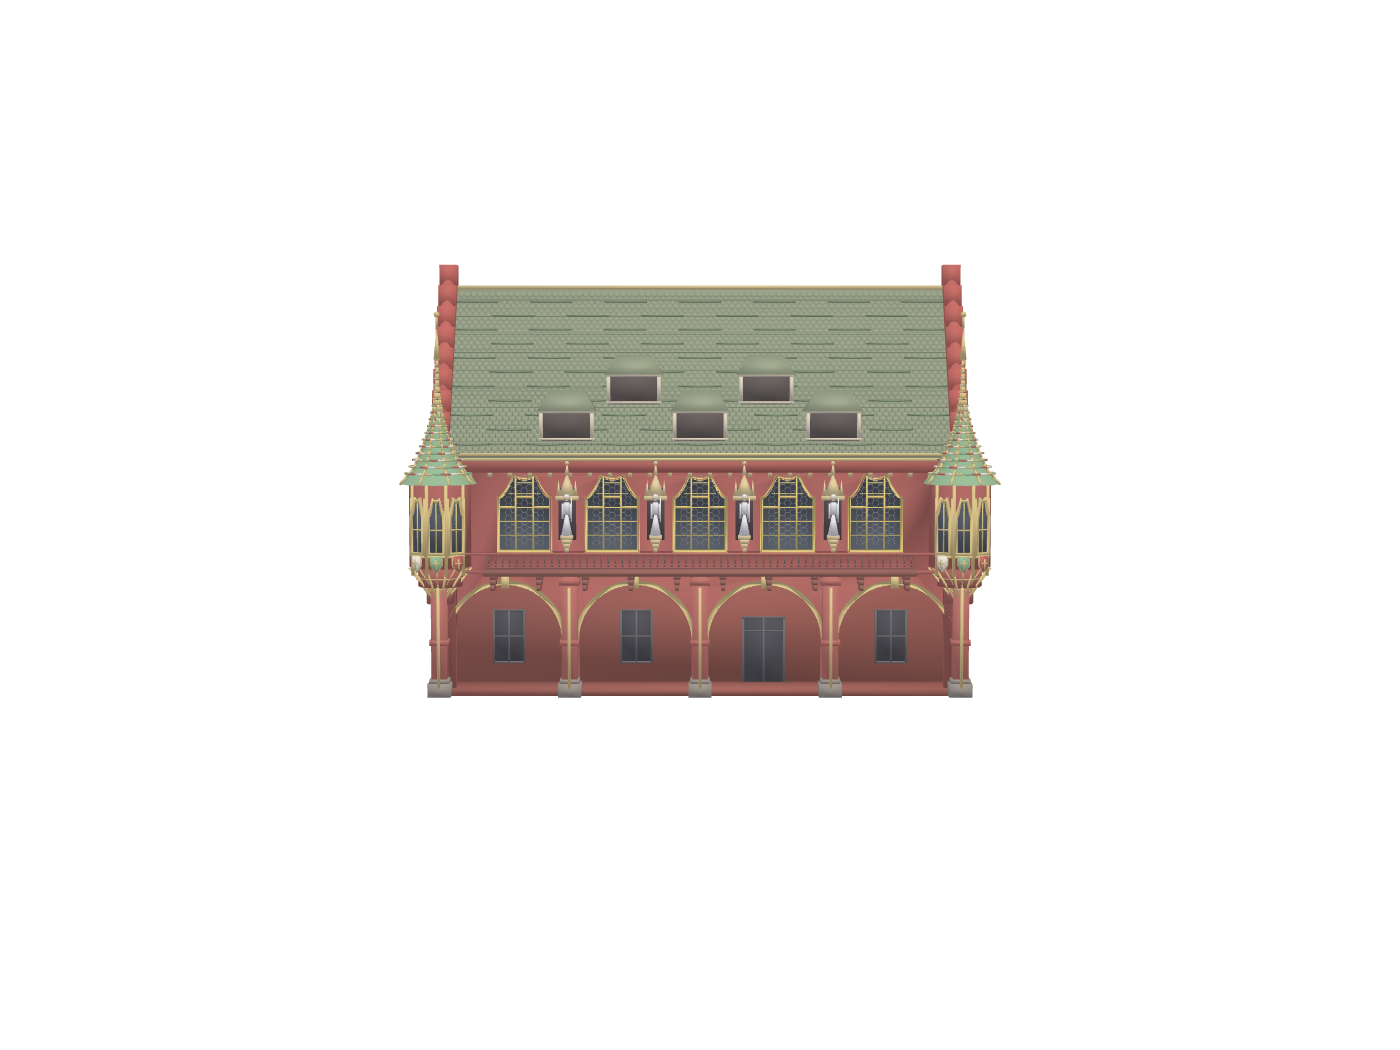
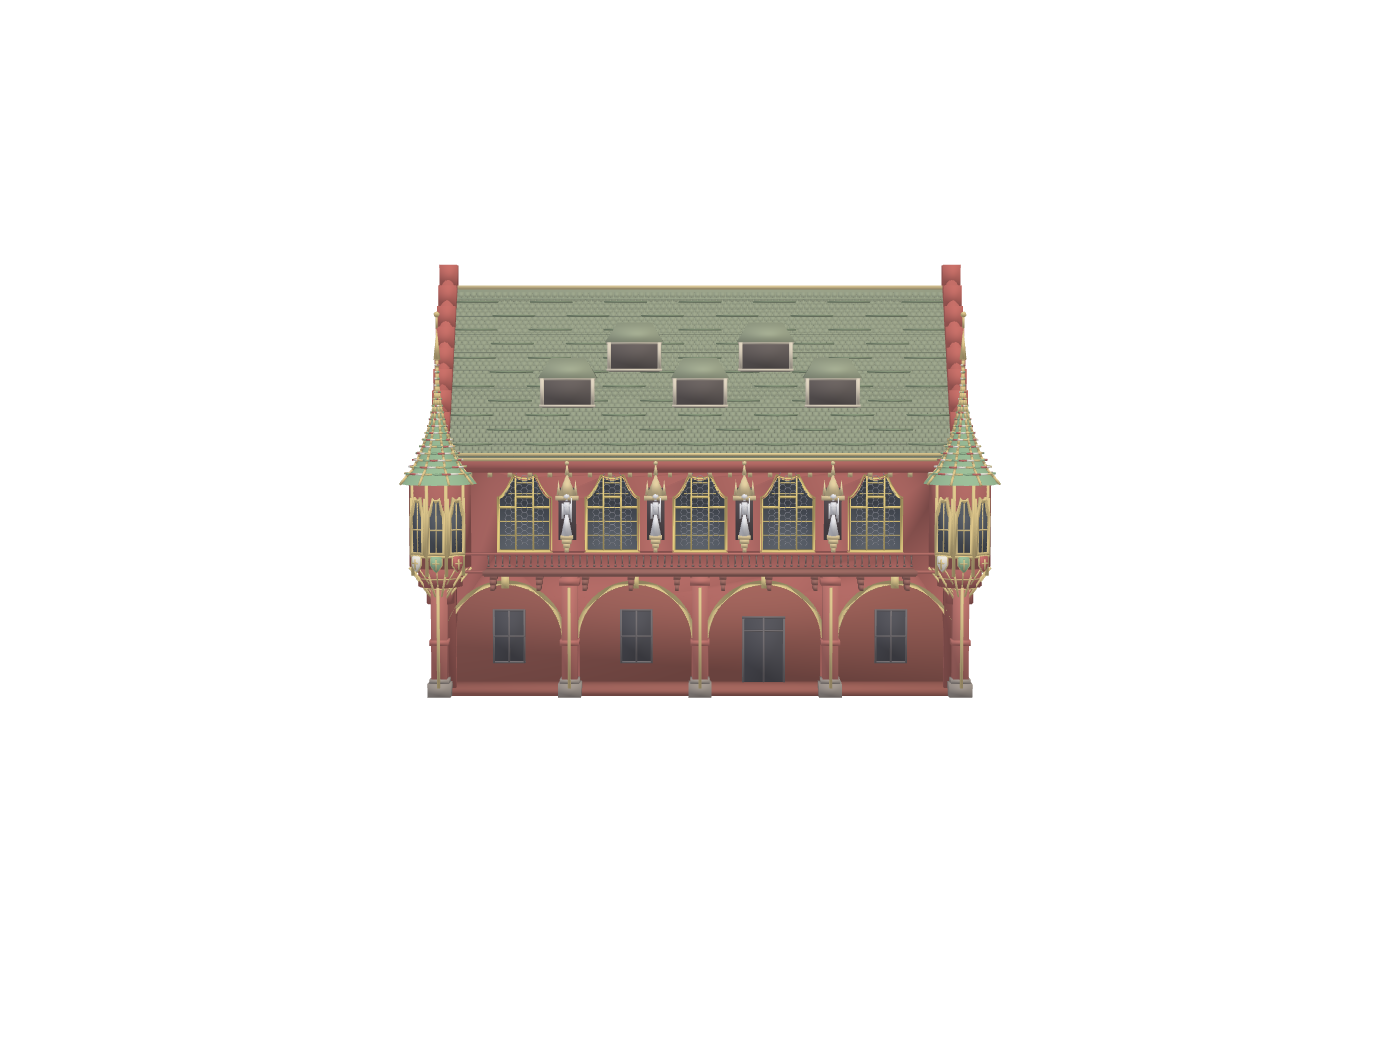
fix(kaufhaus): Dachgauben hoeher ins Dach (beide Reihen, User: waren zu weit unten)
Gauben-Basis-Hoehe von 0.11 -> 0.30 der Dachhoehe (dormer_base_frac Parameter).
Untere Reihe war fast an der Traufe -> jetzt in der Dachmitte. Mit Waechter geprueft:
nur Gauben-Bereich geaendert, Fassade/Galerie unberuehrt.

Changed region(s): [[0.3686, 0.3048, 0.6143, 0.4267]]

diff --git a/tools/kaufhaus_measured.py b/tools/kaufhaus_measured.py
@@ -634,7 +634,8 @@ def _dormer_specs():
     nslots = sum(DORMER_ROWS)                            # z.B. 3+2 = 5 Raster-Spalten
     pitch = span/(nslots-1) if nslots > 1 else span
     nrows = len(DORMER_ROWS)
-    fracs = np.linspace(0.11, 0.11+0.21*(nrows-1), nrows) if nrows > 1 else [0.16]  # obere Reihe höher gezogen (User)
+    base = float(P.get("dormer_base_frac", 0.30))      # Gauben höher ins Dach (User: untere Reihe nicht an der Traufe)
+    fracs = np.linspace(base, base+0.21*(nrows-1), nrows) if nrows > 1 else [base]
     specs = []
     for r, n in enumerate(DORMER_ROWS):
         z = EAVE+fracs[r]*(RIDGE-EAVE)
